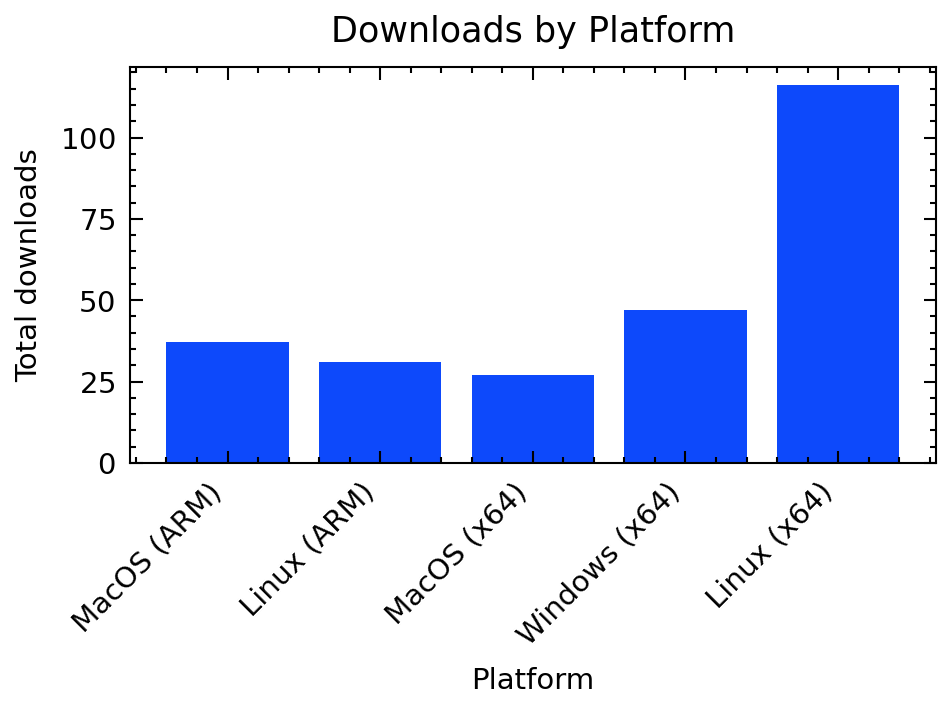
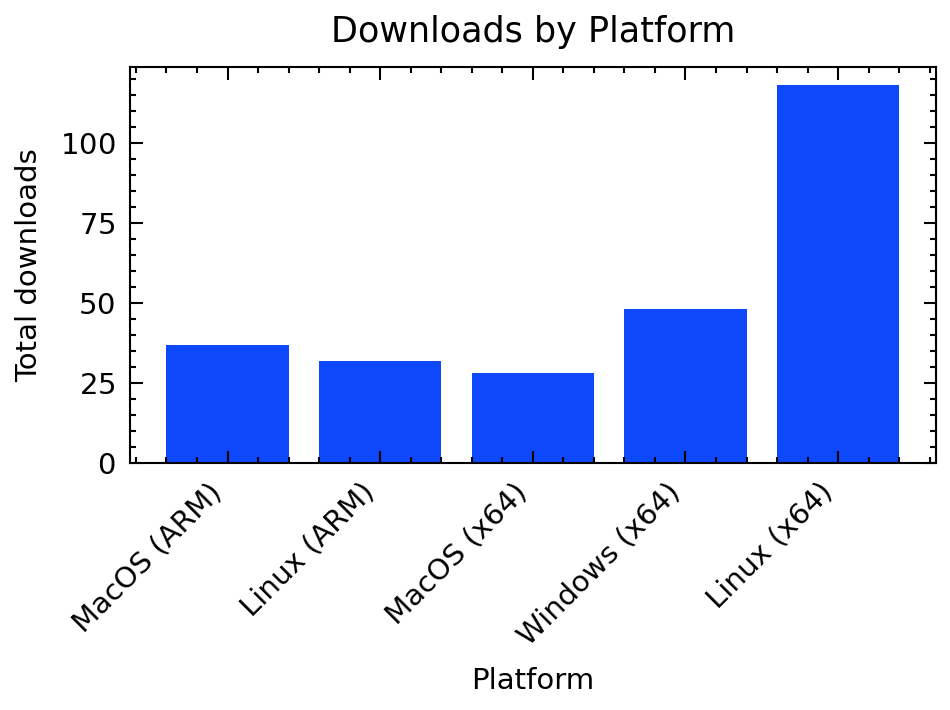
Updated Metrics data

diff --git a/README.md b/README.md
@@ -4,7 +4,7 @@
 SciWIn-Client helps users creating **Computational Workflows** in CWL. Detailed Information about SciWIn-Client can be found in the [GitHub Repository](https://github.com/fairagro/m4.4_sciwin_client). The Metrics shown below have been calculated using the GitHub API. Presentation is done via a CWL Workflow and the scripts in this repository.
 
 ## Downloads by Version
-SciWIn-Client currently has about 258 overall downloads across all versions and operating systems. The lastest version v1.0.0 currently has 59 downloads.
+SciWIn-Client currently has about 263 overall downloads across all versions and operating systems. The lastest version v1.0.0 currently has 63 downloads.
 
 
 ![downloads by version](release.png)
@@ -12,11 +12,11 @@ SciWIn-Client currently has about 258 overall downloads across all versions and 
 
 | Version | Downloads |
 |---------|-----------|
-| v1.0.0 | 59|
+| v1.0.0 | 63|
 | v0.8.0 | 34|
 | v0.7.0 | 21|
 | v0.6.1 | 16|
-| v0.6.0 | 4|
+| v0.6.0 | 5|
 | v0.5.2 | 17|
 | v0.5.1 | 11|
 | v0.5.0 | 11|
@@ -27,7 +27,7 @@ SciWIn-Client currently has about 258 overall downloads across all versions and 
 
 
 ## Downloads by Operating System
-SciWIn-Client is used on all major operating systems. There are 147 downloads of the Linux executable, 47 downloads of the Windows executable and 64 downloads of the Mac OS executable.
+SciWIn-Client is used on all major operating systems. There are 150 downloads of the Linux executable, 48 downloads of the Windows executable and 65 downloads of the Mac OS executable.
 
 
 ![downloads by platform](platform.png)
@@ -36,14 +36,14 @@ SciWIn-Client is used on all major operating systems. There are 147 downloads of
 | Platform | Downloads |
 |---------|-----------|
 | MacOS (ARM) | 37|
-| Linux (ARM) | 31|
-| MacOS (x64) | 27|
-| Windows (x64) | 47|
-| Linux (x64) | 116|
+| Linux (ARM) | 32|
+| MacOS (x64) | 28|
+| Windows (x64) | 48|
+| Linux (x64) | 118|
 
 
 ## Historical Download Chart
-The historical download chart can be viewed below. It is shown how the 258 overall downloads progressed over time by using the commited data of this repository.
+The historical download chart can be viewed below. It is shown how the 263 overall downloads progressed over time by using the commited data of this repository.
 
 
 ![downloads by date](history.png)
